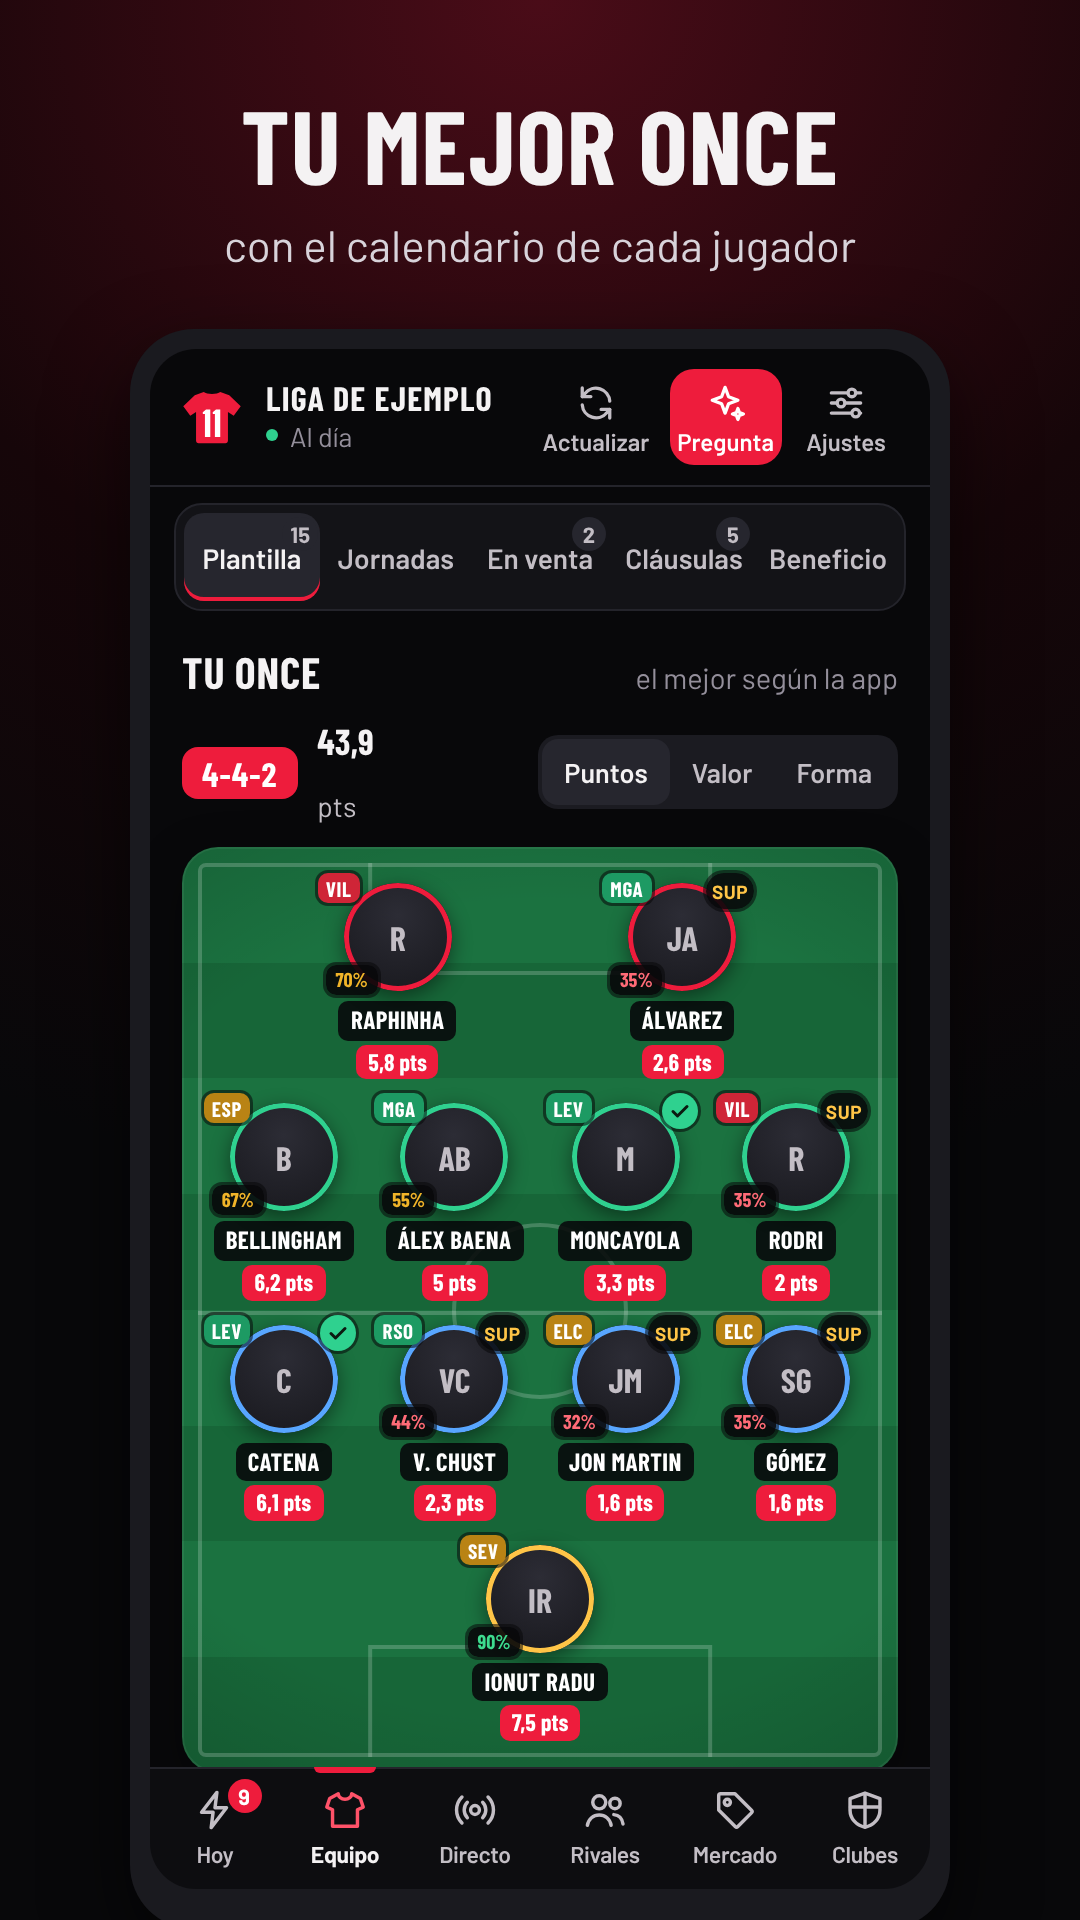
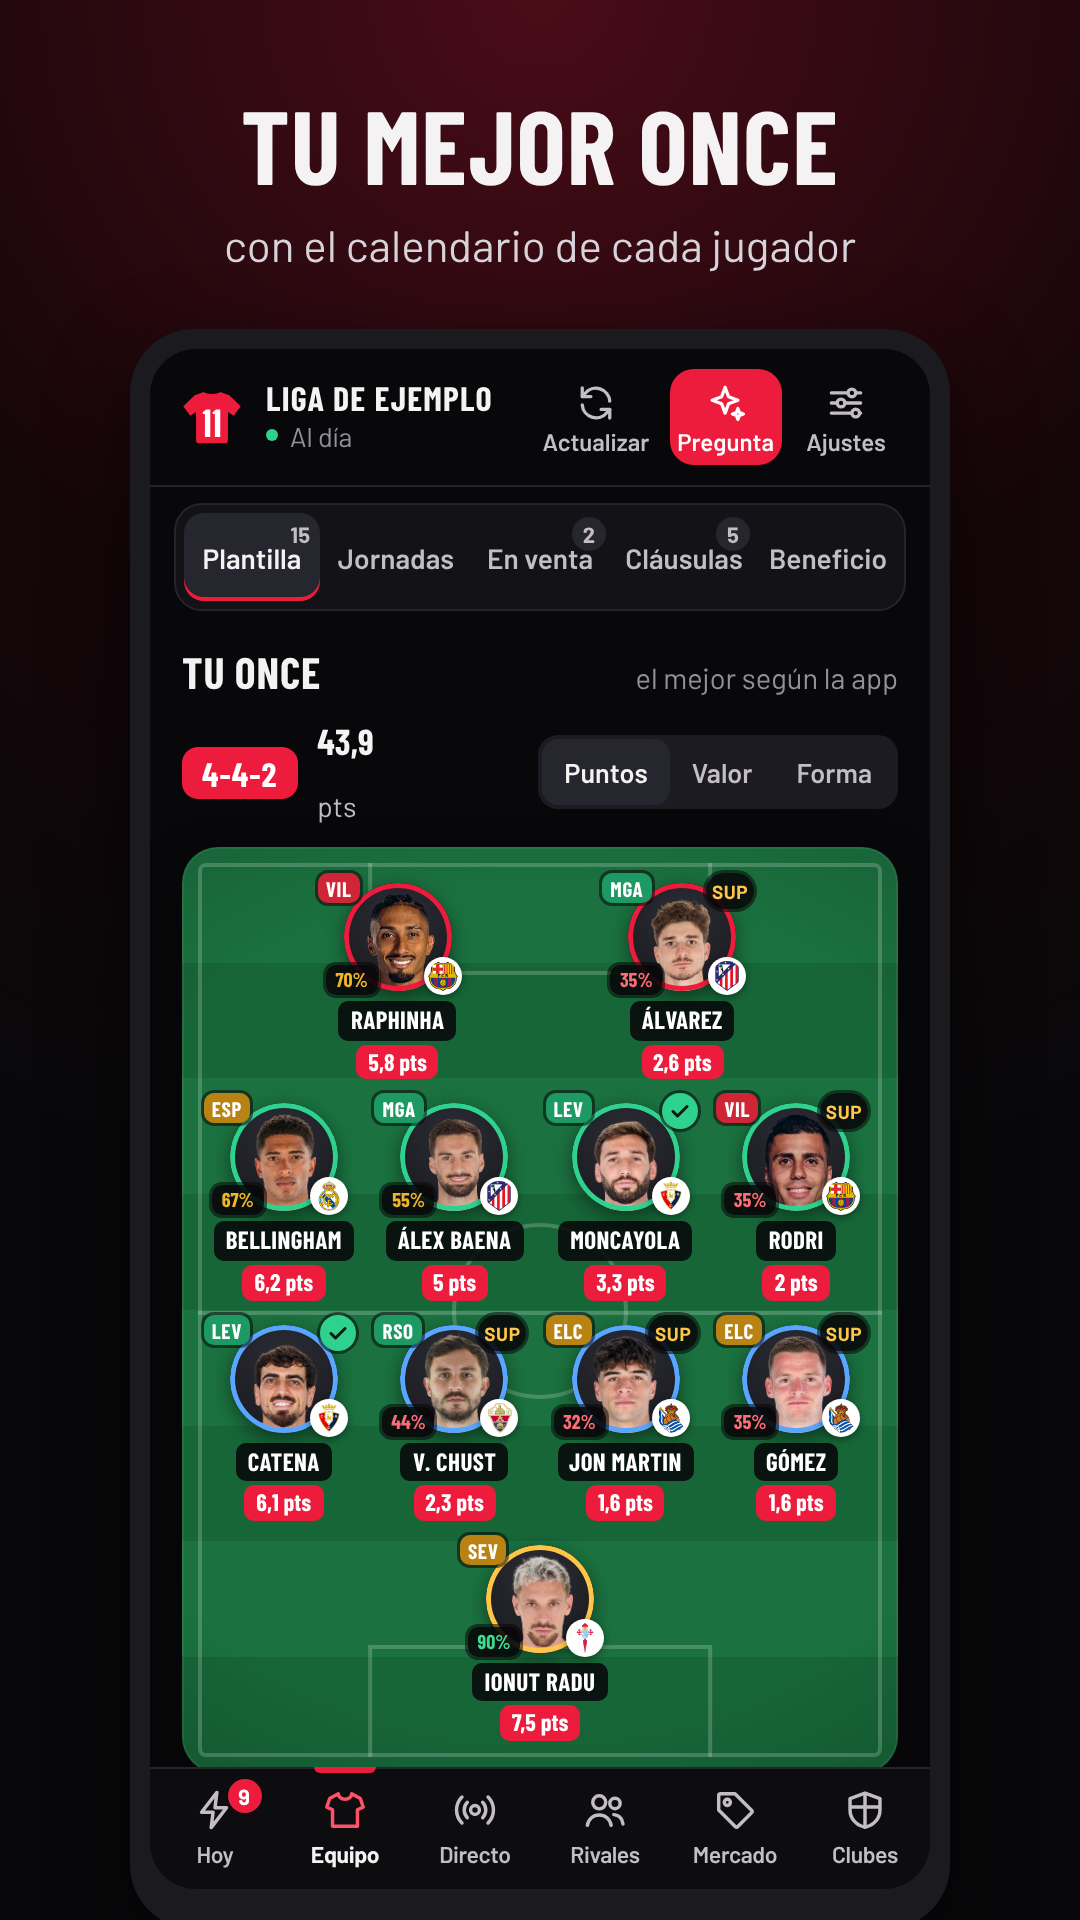
Play: capturas con las caras y los escudos de LaLiga
Claude-Session: https://claude.ai/code/session_01H9251SnFP7tS7XhvjCDxEG

diff --git a/.github/capturas-play.py b/.github/capturas-play.py
@@ -1,7 +1,8 @@
 """Las capturas de la ficha de Google Play (1080 x 1920) con la liga de ejemplo.
 Uso: en web/, `python3 -m http.server 8765`; desde la raíz del repo, `python3 .github/capturas-play.py [archivo…]`
 (PLAYWRIGHT_BROWSERS_PATH=/opt/pw-browsers en el entorno de Claude). Las deja en play/; con nombres, solo esas.
-Sin fotos de LaLiga: todo lo que no es localhost se corta y salen las iniciales (lo que queremos en Play).
+Con las caras y los escudos de LaLiga, como se ve la app (Carlos, 10 nov): se piden con curl y se sirven al navegador;
+lo demás que no es localhost se corta. Si no llegan, el script se para.
 El chat de la IA no gasta cuota: la respuesta de Google es la de RESPUESTA_IA, escrita a mano con los datos de la demo
 (si cambia la demo, revisar las cifras). La cabecera del mensaje dice «IA», sin nombre de modelo."""
 import asyncio, base64, json, os, sys
@@ -51,8 +52,26 @@ async def google(route):
     return await route.fulfill(status=200, content_type='application/json', body=json.dumps({'candidates': [{'content': {'role': 'model', 'parts': [{'text': RESPUESTA_IA}]}, 'finishReason': 'STOP'}]}))
 
 MODO = {'v': 'normal'}
+CACHE = {}
+async def de_fuera(route):
+    """Las caras y los escudos de LaLiga (como se ve la app): la lista de jugadores y de equipos y las imágenes,
+    pedidas con curl (que sale por el proxy del entorno) y servidas al navegador."""
+    u = route.request.url
+    if u not in CACHE:
+        pr = await asyncio.create_subprocess_exec('curl', '-sS', '--compressed', '-m', '30', '-H', 'x-app: 2', '-D', '-', u, stdout=asyncio.subprocess.PIPE)
+        out, _ = await pr.communicate()
+        cab, _, cuerpo = out.partition(b'\r\n\r\n')
+        while cuerpo.startswith(b'HTTP/'):  # 100 Continue o redirecciones
+            cab, _, cuerpo = cuerpo.partition(b'\r\n\r\n')
+        tipo = next((l.split(b':', 1)[1].strip().decode() for l in cab.split(b'\r\n') if l.lower().startswith(b'content-type:')), 'application/octet-stream')
+        estado = int(cab.split(b' ')[1]) if cab.startswith(b'HTTP/') else 502
+        CACHE[u] = (estado, tipo, cuerpo)
+    estado, tipo, cuerpo = CACHE[u]
+    return await route.fulfill(status=estado, content_type=tipo, body=cuerpo, headers={'access-control-allow-origin': '*'})
+
 async def red(route):
     u = route.request.url
+    if 'llt-services.com' in u: return await de_fuera(route)
     if u.startswith('http://localhost'):
         if MODO['v'] != 'normal' and u.split('?')[0].endswith('/limites.json'):
             r = await route.fetch(); d = await r.json(); d['bloqueadas'] = []
@@ -63,6 +82,7 @@ async def red(route):
             return await route.fulfill(response=r, body=t.replace('9: base - 7 * DIA, 10: base,', '9: base - 9 * DIA, 10: base + 7 * DIA,'))
         return await route.continue_()
     if 'generativelanguage.googleapis.com' in u: return await google(route)
+    print('cortado:', u[:120])
     return await route.abort()
 
 async def cerrar_hoja(pg):
@@ -74,7 +94,9 @@ async def main(solo):
         b = await p.chromium.launch()
         for modo in ('normal', 'abierto', 'paron'):
             hoy = [x for x in PANTALLAS if (x[4] if len(x) > 4 else 'normal') == modo and (not solo or x[0] in solo)]
-            if hoy: await por_modo(b, modo, hoy)
+            # una sesión nueva para cada captura: con más de un minuto abierta, la cabecera pasa de «Al día» a
+            # «Actualizado hace 1 min» (y a 390 px eso ocupa tres líneas); recargar no basta, la hora se guarda
+            for x in hoy: await por_modo(b, modo, [x])
         await b.close()
 
 async def por_modo(b, modo, pantallas):
@@ -84,10 +106,20 @@ async def por_modo(b, modo, pantallas):
         await pg.route('**/*', red)
         pg.on('pageerror', lambda e: print('ERROR en la página:', e))
         await pg.add_init_script("localStorage.setItem('fm-tour','1')")
-        # el escudo grande de la ficha del club, sin la foto de LaLiga, es un círculo vacío: fuera
-        await pg.add_init_script("addEventListener('DOMContentLoaded', () => { const s = document.createElement('style'); s.textContent = '.pt-esc.sin.club-g{display:none}'; document.head.appendChild(s); })")
         await pg.goto('http://localhost:8765/')
         await pg.wait_for_timeout(7000)
+        # las caras y los escudos de LaLiga, como en la web publicada: en localhost la app no puede pedirlos (no hay
+        # Worker), así que se piden aquí con caras-demo.js y un http que va directo (lo sirve de_fuera con curl)
+        n = await pg.evaluate("""(async () => {
+          const CD = await import('/js/caras-demo.js'), { jugadoresDemo } = await import('/js/demo.js'), { LS } = await import('/js/util.js');
+          const http = async (m, url, { cabeceras } = {}) => { const r = await fetch(url, { headers: cabeceras }); return { s: r.status, b: await r.text() }; };
+          const n = await CD.traer(http, jugadoresDemo());
+          if (n.casados) { LS.set(CD.CLAVE, n); window.dispatchEvent(new CustomEvent('fm-caras', { detail: n })); }
+          return n.casados || 0;
+        })()""")
+        print('caras casadas:', n)
+        if not n: raise SystemExit('Sin caras de LaLiga: no valen las capturas')
+        await pg.reload(); await pg.wait_for_timeout(7000)
         for arch, tit, sub, pasos, *_ in pantallas:
             await cerrar_hoja(pg)
             for tipo, x in pasos:
@@ -122,6 +154,10 @@ async def por_modo(b, modo, pantallas):
                     await pg.evaluate("(() => { const e = document.querySelector('.msg.yo'); if (e) window.scrollTo(0, e.getBoundingClientRect().top + scrollY - 86); })()")
                     await pg.wait_for_timeout(500)
             await pg.evaluate("document.activeElement && document.activeElement.blur()")
+            # todas las fotos cargadas antes de la foto
+            try: await pg.wait_for_function("[...document.images].filter((i) => { const r = i.getBoundingClientRect(); return r.bottom > 0 && r.top < innerHeight && r.width; }).every((i) => i.complete && i.naturalWidth)", timeout=20000)
+            except Exception: print('OJO: alguna imagen sin cargar en', arch)
+            await pg.wait_for_timeout(500)
             png = await pg.screenshot()
             await componer(b, arch, tit, sub, png)
             print('hecha', arch, f'({modo})')

diff --git a/play/ficha.md b/play/ficha.md
@@ -74,7 +74,7 @@ Fantasy Manager es una app no oficial: no está hecha por LaLiga ni tiene relaci
 | Gráfico destacado | grafico-destacado-1024x500.png | 1024 × 500 |
 | Capturas de teléfono (8 como mucho) | captura-1-hoy, 2-clubes, 3-clausulas, 4-mercado, 6-chat, 7-ficha, 8-dinero y 9-paron (.png), en ese orden | 1080 × 1920 |
 
-Las capturas usan la liga de ejemplo (datos inventados) y salen sin caras ni escudos de LaLiga (iniciales). Rehechas el 10 nov con la app de la 0.7.1e. Nuevas frente a las del 4 nov: la 2, la ficha de un club en «Suben y bajan» (antes, el plan, que desde la 0.7.1 ya sale en la primera pantalla de Hoy); la 8, Rivales → Clasificación con el dinero de cada rival (antes, Movimientos; pedida por Carlos); y la 9, la pestaña Parón con la demo en el parón (antes, Directo, que sin jornada en juego solo enseñaba el calendario; pedida por Carlos). La 8 y la 9 salen con las funciones de anuncio abiertas (sin candado). La 6, el chat, lleva una respuesta escrita a mano con las cifras de la demo y la cabecera dice «IA»: ninguna captura nombra modelos. La 5 (Equipo, tu once) queda de repuesto. Se rehacen con `.github/capturas-play.py` (instrucciones arriba del archivo; si cambia la demo, revisar las cifras de la respuesta del chat).
+Las capturas usan la liga de ejemplo (datos inventados) y llevan las caras de los jugadores y los escudos de LaLiga, como se ve la app (Carlos, 10 nov: sin ellos no valen). Rehechas el 10 nov con la app de la 0.7.1e. Nuevas frente a las del 4 nov: la 2, la ficha de un club en «Suben y bajan» (antes, el plan, que desde la 0.7.1 ya sale en la primera pantalla de Hoy); la 8, Rivales → Clasificación con el dinero de cada rival (antes, Movimientos; pedida por Carlos); y la 9, la pestaña Parón con la demo en el parón (antes, Directo, que sin jornada en juego solo enseñaba el calendario; pedida por Carlos). La 8 y la 9 salen con las funciones de anuncio abiertas (sin candado). La 6, el chat, lleva una respuesta escrita a mano con las cifras de la demo y la cabecera dice «IA»: ninguna captura nombra modelos. La 5 (Equipo, tu once) queda de repuesto. Se rehacen con `.github/capturas-play.py` (instrucciones arriba del archivo; si cambia la demo, revisar las cifras de la respuesta del chat).
 
 ## Clasificación de contenido (cuestionario)
 
